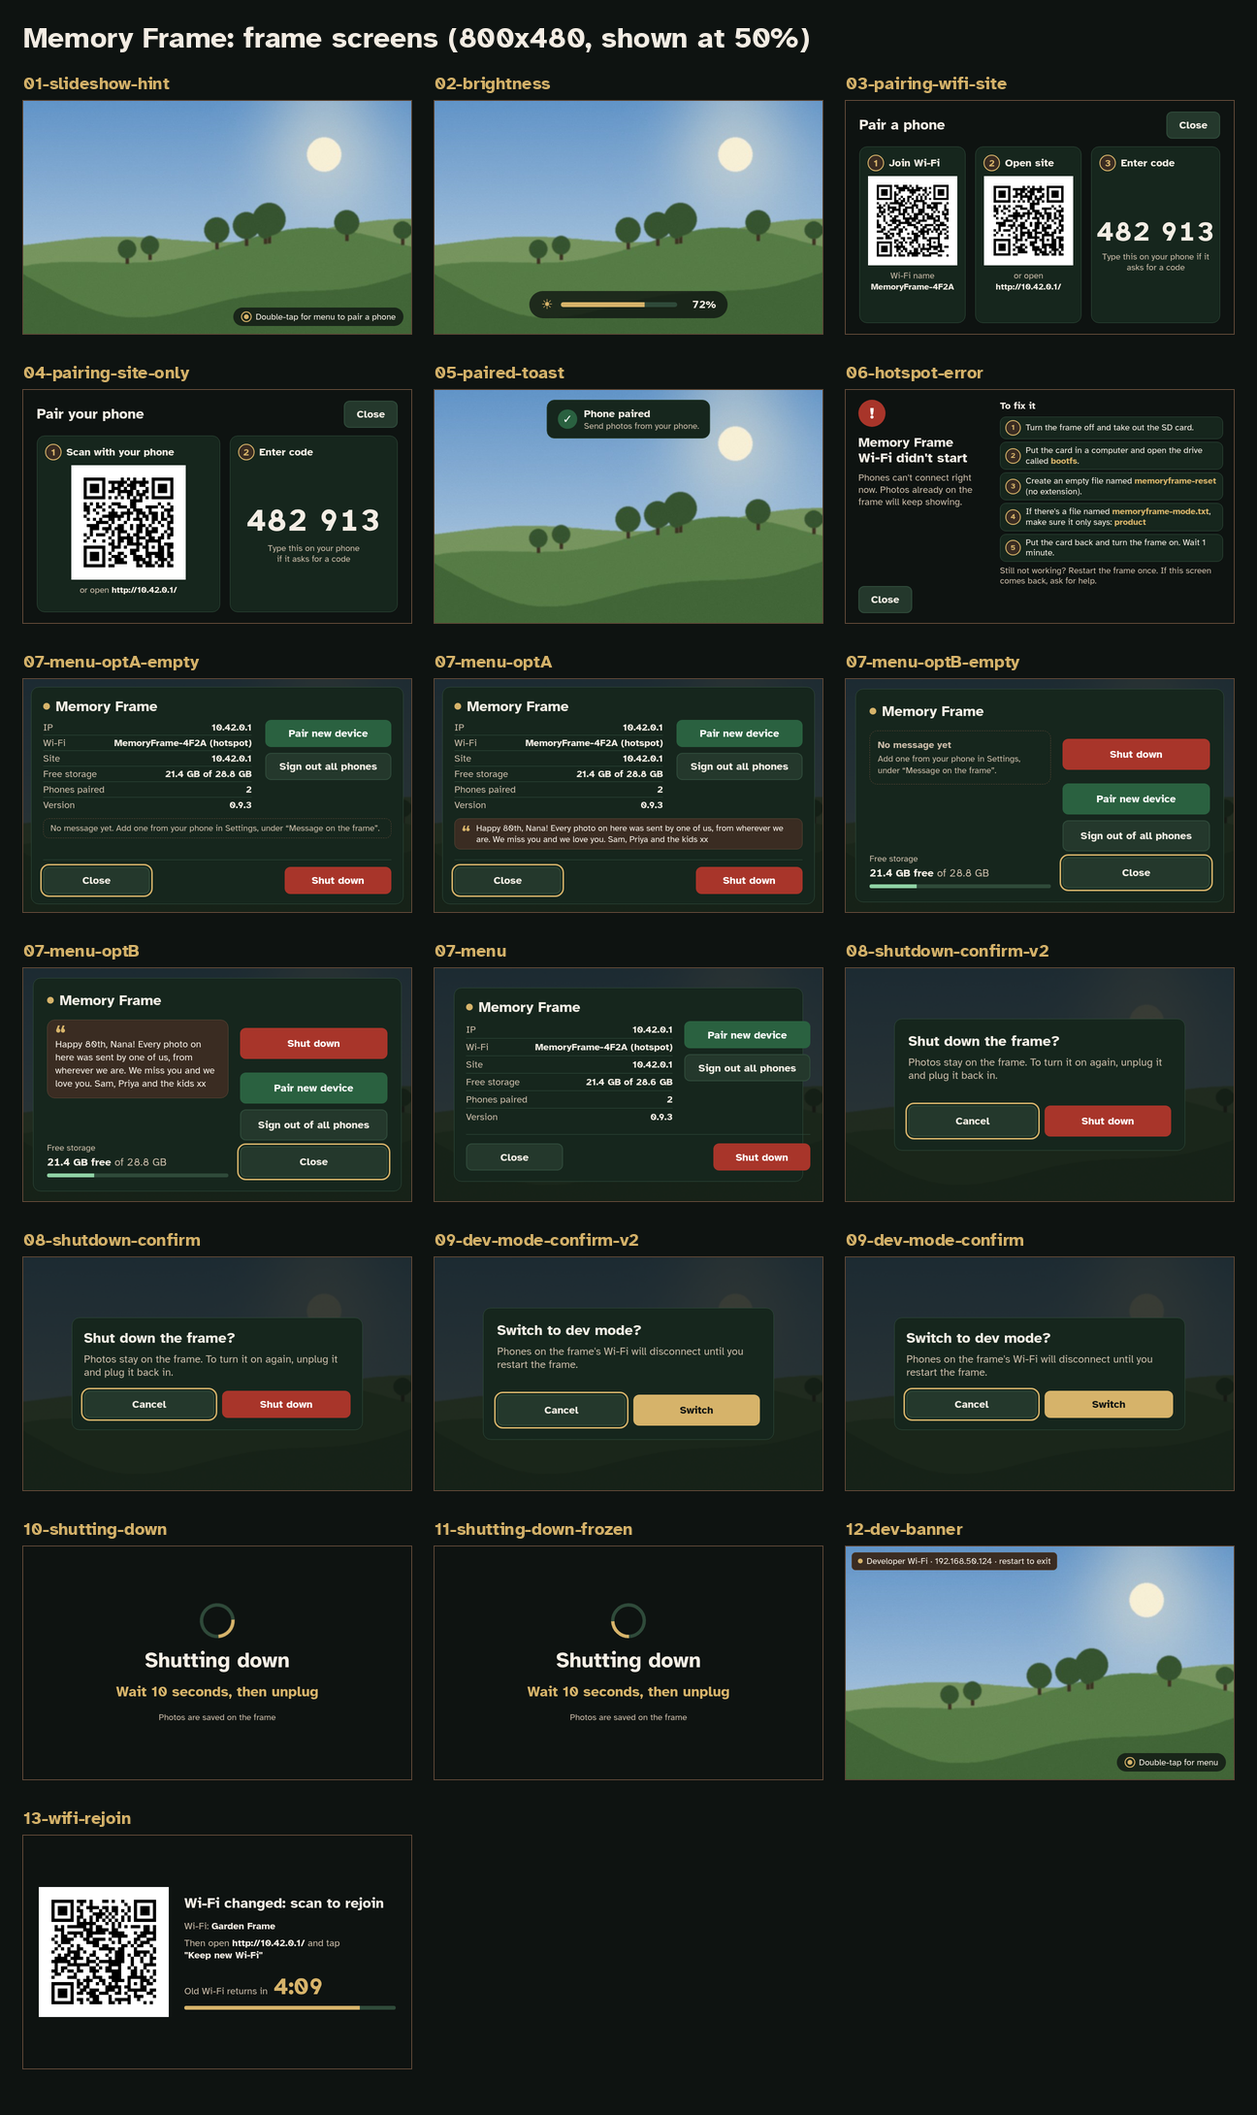
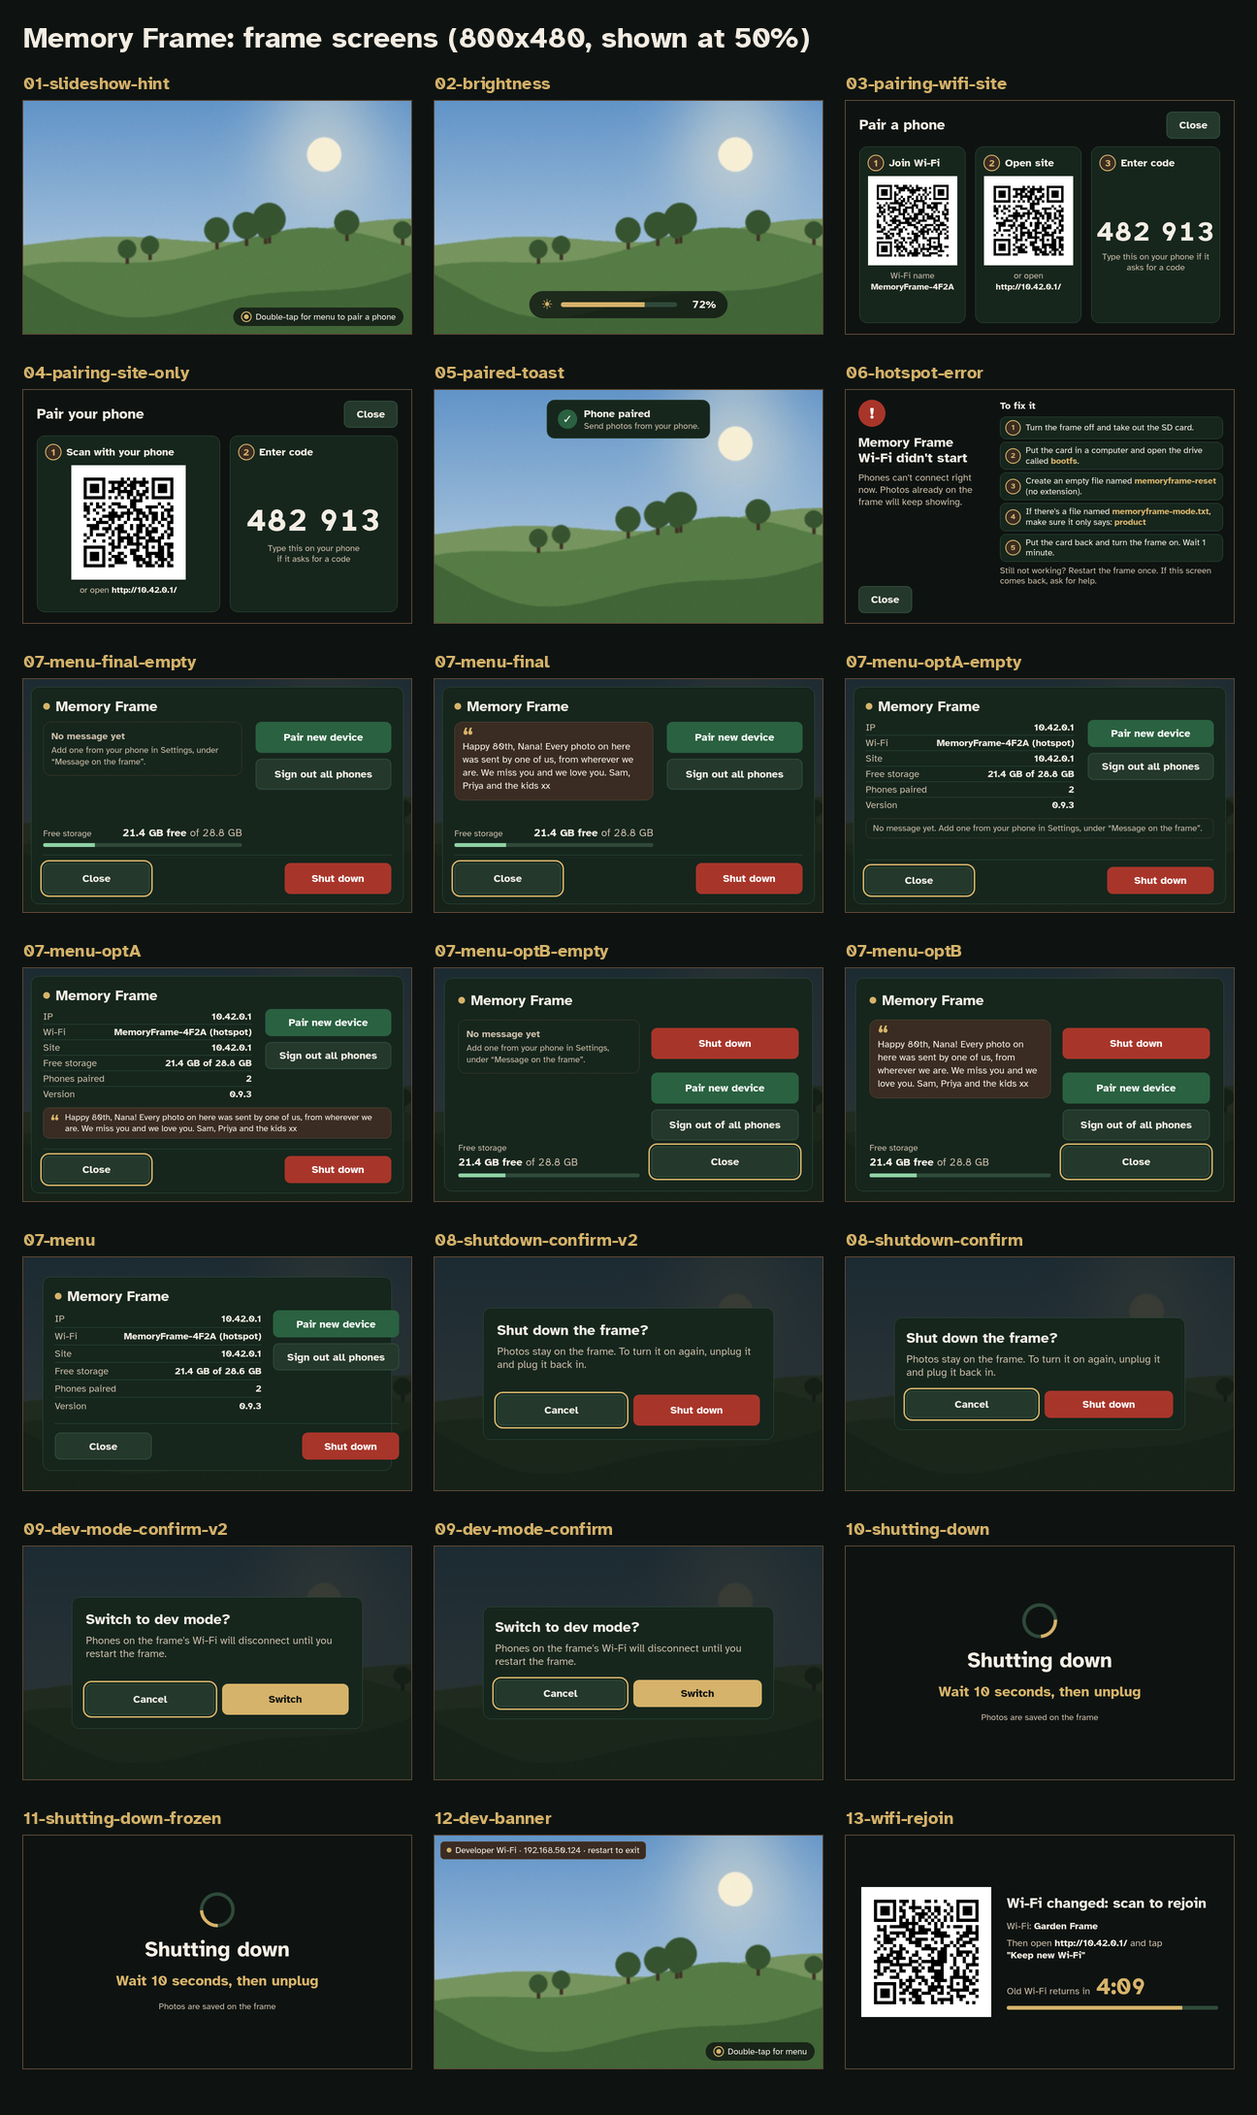
Design: final hybrid double-tap menu (07-menu-final, -empty); record decision in MENU-V2.md; contact sheet

diff --git a/docs/design/visual-direction/frame/07-menu-final.html b/docs/design/visual-direction/frame/07-menu-final.html
@@ -1,0 +1,60 @@
+<!DOCTYPE html><html lang="en"><head><meta charset="UTF-8"><title>Double-tap menu FINAL (hybrid): message + storage left, Pair / Sign out right, Close / Shut down bottom</title>
+<!-- Memory Frame visual direction mock (Double-tap menu FINAL (hybrid): message + storage left, Pair / Sign out right, Close / Shut down bottom). 800x480. Mocks only, not app code. -->
+<link rel="stylesheet" href="frame.css"><style>
+.menu2 { position:absolute; inset:20px; padding:28px; display:grid; grid-template-columns: 1fr 304px; gap:0 24px; }
+.menu2 .info { display:flex; flex-direction:column; min-width:0; }
+.menu2 .title { display:flex; align-items:center; gap:12px; margin:0 0 22px; }
+.menu2 .title .mark { width:14px; height:14px; border-radius:50%; background:var(--mf-brass); flex:none; }
+.store { margin-top:auto; }
+.store .lab { font-size:var(--mf-f-small); color:var(--mf-oat); margin:0 0 4px; }
+.store .val { font-size:var(--mf-f-body); font-weight:700; margin:0 0 10px; font-variant-numeric:tabular-nums; }
+.store .val span { font-weight:400; color:var(--mf-oat); }
+.store .track { height:8px; border-radius:4px; background:var(--mf-forest-700); overflow:hidden; }
+.store .used { height:100%; width:100%; background:var(--mf-leaf); transform-origin:left; } /* scaleX(used fraction) */
+.note { margin:0; background:var(--mf-walnut-900); border:1px solid var(--mf-walnut); border-radius:var(--mf-r-lg);
+        padding:14px 16px 16px; }
+.note .q { display:block; color:var(--mf-brass); font-size:44px; line-height:.6; height:22px; font-weight:700; }
+.note p { margin:0; font-size:var(--mf-f-label); line-height:1.35; color:var(--mf-linen);
+          display:-webkit-box; -webkit-box-orient:vertical; -webkit-line-clamp:5; overflow:hidden; overflow-wrap:anywhere; } /* 140 chars of mixed case = 4 lines; 5 is the safety cap (all caps) */
+.note.empty { background:transparent; border:1px dashed var(--mf-walnut); padding:16px; }
+.note.empty b { display:block; font-size:var(--mf-f-label); color:var(--mf-oat); margin:0 0 4px; }
+.note.empty p { color:var(--mf-oat); font-size:var(--mf-f-small); display:block; }
+.stack { display:flex; flex-direction:column; justify-content:flex-end; gap:12px; }
+.stack .btn { width:100%; min-height:64px; padding:0 16px; white-space:nowrap; }
+.stack .btn-danger { margin-bottom:16px; } /* 12 + 16 = 28 px between Shut down and the rest */
+</style><style>
+.menuF { position:absolute; inset:16px; padding:22px 24px 20px; display:grid; grid-template-columns: 1fr 280px;
+         grid-template-rows:auto 1fr auto; gap:0 28px; }
+.menuF .title { grid-column:1 / -1; display:flex; align-items:center; gap:12px; margin:0 0 14px; }
+.menuF .title .mark { width:14px; height:14px; border-radius:50%; background:var(--mf-brass); flex:none; }
+.menuF .info { display:flex; flex-direction:column; min-width:0; }
+.menuF .store { margin-top:auto; padding-top:14px; }
+.menuF .store .val { margin:0 0 8px; display:flex; justify-content:space-between; align-items:baseline; gap:12px; }
+.menuF .store .val .lab { font-size:var(--mf-f-small); color:var(--mf-oat); margin:0; font-weight:400; }
+.menuF .side { display:flex; flex-direction:column; gap:12px; }
+.menuF .side .btn, .menuF .bottom .btn { min-height:64px; white-space:nowrap; }
+.menuF .side .btn { width:100%; }
+.menuF .bottom { grid-column:1 / -1; display:flex; justify-content:space-between; margin-top:16px; padding-top:16px; border-top:1px solid var(--mf-forest-700); }
+.menuF .bottom .btn { width:220px; }
+</style></head>
+<body><div id="frame">
+<img class="media" src="../assets/photo-landscape.jpg" alt="">
+<div class="scrim"><div class="card menuF" role="dialog" aria-label="Menu">
+  <h1 class="title"><span class="mark"></span>Memory Frame</h1>
+  <div class="info">
+    <figure class="note"><span class="q" aria-hidden="true">“</span><p>Happy 80th, Nana! Every photo on here was sent by one of us, from wherever we are. We miss you and we love you. Sam, Priya and the kids xx</p></figure>
+    <div class="store">
+      <div class="val"><span class="lab">Free storage</span><b>21.4 GB free <span>of 28.8 GB</span></b></div>
+      <div class="track" role="meter" aria-label="Storage used" aria-valuemin="0" aria-valuemax="28.8" aria-valuenow="7.4"><div class="used" style="transform:scaleX(.26)"></div></div>
+    </div>
+  </div>
+  <div class="side">
+    <button class="btn btn-primary">Pair new device</button>
+    <button class="btn btn-neutral">Sign out all phones</button>
+  </div>
+  <div class="bottom">
+    <button class="btn btn-neutral btn-default" autofocus>Close</button>
+    <button class="btn btn-danger">Shut down</button>
+  </div>
+</div></div>
+</div></body></html>

diff --git a/docs/design/visual-direction/frame/07-menu-final-empty.html b/docs/design/visual-direction/frame/07-menu-final-empty.html
@@ -1,0 +1,60 @@
+<!DOCTYPE html><html lang="en"><head><meta charset="UTF-8"><title>Double-tap menu FINAL (hybrid): no message set</title>
+<!-- Memory Frame visual direction mock (Double-tap menu FINAL (hybrid): no message set). 800x480. Mocks only, not app code. -->
+<link rel="stylesheet" href="frame.css"><style>
+.menu2 { position:absolute; inset:20px; padding:28px; display:grid; grid-template-columns: 1fr 304px; gap:0 24px; }
+.menu2 .info { display:flex; flex-direction:column; min-width:0; }
+.menu2 .title { display:flex; align-items:center; gap:12px; margin:0 0 22px; }
+.menu2 .title .mark { width:14px; height:14px; border-radius:50%; background:var(--mf-brass); flex:none; }
+.store { margin-top:auto; }
+.store .lab { font-size:var(--mf-f-small); color:var(--mf-oat); margin:0 0 4px; }
+.store .val { font-size:var(--mf-f-body); font-weight:700; margin:0 0 10px; font-variant-numeric:tabular-nums; }
+.store .val span { font-weight:400; color:var(--mf-oat); }
+.store .track { height:8px; border-radius:4px; background:var(--mf-forest-700); overflow:hidden; }
+.store .used { height:100%; width:100%; background:var(--mf-leaf); transform-origin:left; } /* scaleX(used fraction) */
+.note { margin:0; background:var(--mf-walnut-900); border:1px solid var(--mf-walnut); border-radius:var(--mf-r-lg);
+        padding:14px 16px 16px; }
+.note .q { display:block; color:var(--mf-brass); font-size:44px; line-height:.6; height:22px; font-weight:700; }
+.note p { margin:0; font-size:var(--mf-f-label); line-height:1.35; color:var(--mf-linen);
+          display:-webkit-box; -webkit-box-orient:vertical; -webkit-line-clamp:5; overflow:hidden; overflow-wrap:anywhere; } /* 140 chars of mixed case = 4 lines; 5 is the safety cap (all caps) */
+.note.empty { background:transparent; border:1px dashed var(--mf-walnut); padding:16px; }
+.note.empty b { display:block; font-size:var(--mf-f-label); color:var(--mf-oat); margin:0 0 4px; }
+.note.empty p { color:var(--mf-oat); font-size:var(--mf-f-small); display:block; }
+.stack { display:flex; flex-direction:column; justify-content:flex-end; gap:12px; }
+.stack .btn { width:100%; min-height:64px; padding:0 16px; white-space:nowrap; }
+.stack .btn-danger { margin-bottom:16px; } /* 12 + 16 = 28 px between Shut down and the rest */
+</style><style>
+.menuF { position:absolute; inset:16px; padding:22px 24px 20px; display:grid; grid-template-columns: 1fr 280px;
+         grid-template-rows:auto 1fr auto; gap:0 28px; }
+.menuF .title { grid-column:1 / -1; display:flex; align-items:center; gap:12px; margin:0 0 14px; }
+.menuF .title .mark { width:14px; height:14px; border-radius:50%; background:var(--mf-brass); flex:none; }
+.menuF .info { display:flex; flex-direction:column; min-width:0; }
+.menuF .store { margin-top:auto; padding-top:14px; }
+.menuF .store .val { margin:0 0 8px; display:flex; justify-content:space-between; align-items:baseline; gap:12px; }
+.menuF .store .val .lab { font-size:var(--mf-f-small); color:var(--mf-oat); margin:0; font-weight:400; }
+.menuF .side { display:flex; flex-direction:column; gap:12px; }
+.menuF .side .btn, .menuF .bottom .btn { min-height:64px; white-space:nowrap; }
+.menuF .side .btn { width:100%; }
+.menuF .bottom { grid-column:1 / -1; display:flex; justify-content:space-between; margin-top:16px; padding-top:16px; border-top:1px solid var(--mf-forest-700); }
+.menuF .bottom .btn { width:220px; }
+</style></head>
+<body><div id="frame">
+<img class="media" src="../assets/photo-landscape.jpg" alt="">
+<div class="scrim"><div class="card menuF" role="dialog" aria-label="Menu">
+  <h1 class="title"><span class="mark"></span>Memory Frame</h1>
+  <div class="info">
+    <div class="note empty"><b>No message yet</b><p>Add one from your phone in Settings, under “Message on the frame”.</p></div>
+    <div class="store">
+      <div class="val"><span class="lab">Free storage</span><b>21.4 GB free <span>of 28.8 GB</span></b></div>
+      <div class="track" role="meter" aria-label="Storage used" aria-valuemin="0" aria-valuemax="28.8" aria-valuenow="7.4"><div class="used" style="transform:scaleX(.26)"></div></div>
+    </div>
+  </div>
+  <div class="side">
+    <button class="btn btn-primary">Pair new device</button>
+    <button class="btn btn-neutral">Sign out all phones</button>
+  </div>
+  <div class="bottom">
+    <button class="btn btn-neutral btn-default" autofocus>Close</button>
+    <button class="btn btn-danger">Shut down</button>
+  </div>
+</div></div>
+</div></body></html>

diff --git a/docs/design/visual-direction/tools/make_frame_html.py b/docs/design/visual-direction/tools/make_frame_html.py
@@ -297,6 +297,50 @@ M["07-menu-optA"] = ("Double-tap menu option A: info table (reference layout) + 
 M["07-menu-optA-empty"] = ("Double-tap menu option A: no message set", MENUA_CSS, menuA(
     '<div class="strip empty"><p>No message yet. Add one from your phone in Settings, under \u201cMessage on the frame\u201d.</p></div>'))
 
+# Menu FINAL (user's hybrid choice, 17 Oct): B's left column (message card + storage meter, no IP/Site/
+# Version) with A's buttons (Pair / Sign out on the right, Close bottom-left with the default ring,
+# Shut down bottom-right). All buttons 64 px. Details live on the phone under "About this frame".
+MENUF_CSS = MENU2_CSS + '''<style>
+.menuF { position:absolute; inset:16px; padding:22px 24px 20px; display:grid; grid-template-columns: 1fr 280px;
+         grid-template-rows:auto 1fr auto; gap:0 28px; }
+.menuF .title { grid-column:1 / -1; display:flex; align-items:center; gap:12px; margin:0 0 14px; }
+.menuF .title .mark { width:14px; height:14px; border-radius:50%; background:var(--mf-brass); flex:none; }
+.menuF .info { display:flex; flex-direction:column; min-width:0; }
+.menuF .store { margin-top:auto; padding-top:14px; }
+.menuF .store .val { margin:0 0 8px; display:flex; justify-content:space-between; align-items:baseline; gap:12px; }
+.menuF .store .val .lab { font-size:var(--mf-f-small); color:var(--mf-oat); margin:0; font-weight:400; }
+.menuF .side { display:flex; flex-direction:column; gap:12px; }
+.menuF .side .btn, .menuF .bottom .btn { min-height:64px; white-space:nowrap; }
+.menuF .side .btn { width:100%; }
+.menuF .bottom { grid-column:1 / -1; display:flex; justify-content:space-between; margin-top:16px; padding-top:16px; border-top:1px solid var(--mf-forest-700); }
+.menuF .bottom .btn { width:220px; }
+</style>'''
+STORE_F = '''<div class="store">
+      <div class="val"><span class="lab">Free storage</span><b>21.4 GB free <span>of 28.8 GB</span></b></div>
+      <div class="track" role="meter" aria-label="Storage used" aria-valuemin="0" aria-valuemax="28.8" aria-valuenow="7.4"><div class="used" style="transform:scaleX(.26)"></div></div>
+    </div>'''
+def menuF(note):
+    return PHOTO + '''
+<div class="scrim"><div class="card menuF" role="dialog" aria-label="Menu">
+  <h1 class="title"><span class="mark"></span>Memory Frame</h1>
+  <div class="info">
+    ''' + note + '''
+    ''' + STORE_F + '''
+  </div>
+  <div class="side">
+    <button class="btn btn-primary">Pair new device</button>
+    <button class="btn btn-neutral">Sign out all phones</button>
+  </div>
+  <div class="bottom">
+    <button class="btn btn-neutral btn-default" autofocus>Close</button>
+    <button class="btn btn-danger">Shut down</button>
+  </div>
+</div></div>'''
+M["07-menu-final"] = ("Double-tap menu FINAL (hybrid): message + storage left, Pair / Sign out right, Close / Shut down bottom", MENUF_CSS, menuF(
+    '<figure class="note"><span class="q" aria-hidden="true">\u201c</span><p>' + GIFT_MSG + '</p></figure>'))
+M["07-menu-final-empty"] = ("Double-tap menu FINAL (hybrid): no message set", MENUF_CSS, menuF(
+    '<div class="note empty"><b>No message yet</b><p>Add one from your phone in Settings, under \u201cMessage on the frame\u201d.</p></div>'))
+
 # Confirm v2: card vertically centred, a minimum height, and the buttons pinned to the bottom with the
 # same 28 px padding on every side (fixes the app's buttons sitting high with dead space under them).
 CONFIRM2_CSS = '''<style>

diff --git a/docs/design/visual-direction/MENU-V2.md b/docs/design/visual-direction/MENU-V2.md
@@ -1,4 +1,4 @@
-# Double-tap menu rework (menu v2): option A vs option B, dev-mode confirm fix, frame message
+# Double-tap menu rework (menu v2): final hybrid menu, dev-mode confirm fix, frame message
 
 *Wren (Designer), 17 Oct 2026. Mocks only, for the user's sign-off (via Rowan → Sloane). No app code changes.
 Same tokens and components as [DIRECTION.md](DIRECTION.md); rendered with `tools/render.py` (headless Chromium,
@@ -10,9 +10,33 @@ cancel button with the border around it, maybe bring that onto close on the menu
 right: Shut down, pair new device, sign out of all phones, then Close. Only basic info should be on the left e.g. title
 Memory Frame, free storage and a custom message to the gift receiver."*
 
+## ✅ Final decision (user, 17 Oct 2026): hybrid menu → `frame/07-menu-final.png`, `frame/07-menu-final-empty.png`
+
+![Final menu](frame/07-menu-final.png)
+
+**This is the menu to build.** Options A and B below are kept for the record only.
+- **Title:** "Memory Frame" with the brass dot.
+- **Left column (info only, from B):** the gift message card (walnut-900, brass quote mark, 20 px linen, up to 140 characters, 4 lines
+  normally, capped at 5 with an ellipsis; checked that an all-caps 136-character message fits 5 lines without touching the meter),
+  then **free storage as a display-only meter** at the foot: "Free storage" (oat, 18 px) and "**21.4 GB free** of 28.8 GB" on one line,
+  above the 8 px bar (leaf on forest-700, `transform:scaleX(used)`; `role="meter"`, not interactive). **No IP, Wi-Fi, Site, Phones paired or Version.**
+- **Right column (from A):** Pair new device (forest-600, solid) and **Sign out all phones** (neutral, outlined), each 280 px wide and **64 px** tall, 12 px apart,
+  top-aligned with the message card.
+- **Bottom row across the card (from A):** **Close** bottom-left (neutral with the 3 px brass default ring, initial focus) and **Shut down** bottom-right
+  (brick, opens the confirm, never the default), each 220 px wide and **64 px** tall, under a 1 px forest-700 divider. About 250 px of space separates them.
+- Geometry: card inset 16 px, padding 22/24/20 px, columns 1fr + 280 px with a 28 px gap. Nothing clips at 800x480 (render check plus a visual check).
+- Empty state: the same quiet dashed hint, "No message yet / Add one from your phone in Settings, under “Message on the frame”."
+- **Wording:** "Sign out all phones" (matches the confirm title "Sign out all phones?").
+- **Details move to the phone:** Wi-Fi, address, phones paired and version go to **Settings → About this frame** (`phone/04-settings-v2.png`);
+  the message is set in **Settings → Message on the frame** (`04-settings-v2`, `04b-settings-message-saved`).
+- **Dev-mode confirm fix approved:** `frame/09-dev-mode-confirm-v2.png` (card centred, buttons pinned to the bottom with 28 px padding;
+  root cause and CSS fix below). `08-shutdown-confirm-v2.png` shows the same fix for the shut-down confirm.
+
+## History: options A and B (superseded by the final hybrid)
+
 ![A vs B](frame/07-menu-AvsB.png)
 
-## Pick one: A or B
+### A vs B (as shown to the user)
 
 **Trade-off in one line:** A keeps the technical details (IP, Site, version), which are handy for setup and support but noise
 for a gift receiver; B is simpler and friendlier, and those details move to the phone site's About page.
@@ -63,7 +87,7 @@ frame that tells them the feature exists and where to find it, whereas a blank s
 (secondary colour, no fill, no button look), so a receiver who sees it before a message is set isn't bothered, and it disappears as soon as a message is saved.
 It deliberately has no link or QR, because the frame can't set the message itself.
 
-## Where the removed info goes (option B)
+## Where the removed info goes (final menu and option B)
 IP / address, Wi-Fi name, Site, Phones paired and Version come **off the frame menu** and stay on the phone site:
 - **Settings → About this frame** (new row at the bottom of Settings, in `04-settings-v2` and `04b`): Frame Wi-Fi, Address, Phones paired, Free storage, Version.
 - Wi-Fi name and password changes are still on **Frame Wi-Fi** (home page row, `05-wifi-change`).
@@ -99,7 +123,7 @@ Settings is slightly tightened (12 px card gaps, Transition on one row) so every
 | Saved | ✓ Saved · Saved (disabled) · Remove message · "On the frame now" |
 | About row | About this frame / Wi-Fi, address, phones paired, version |
 
-Sign-out wording: B uses the user's "Sign out of all phones"; A keeps "Sign out all phones" from the reference. The confirm title stays "Sign out all phones?". Pick one when building.
+Sign-out wording: **decided: "Sign out all phones"** (final menu, same as A and the confirm title). B's "Sign out of all phones" is superseded.
 
 ## Dev-mode confirm: why the buttons sit too high (root cause)
 Checked on `origin/main` @ 3dc2fae and PR #72 head `restyle-a-tokens` @ eea9d6e (the CSS rules are the same in both, only colours differ).
